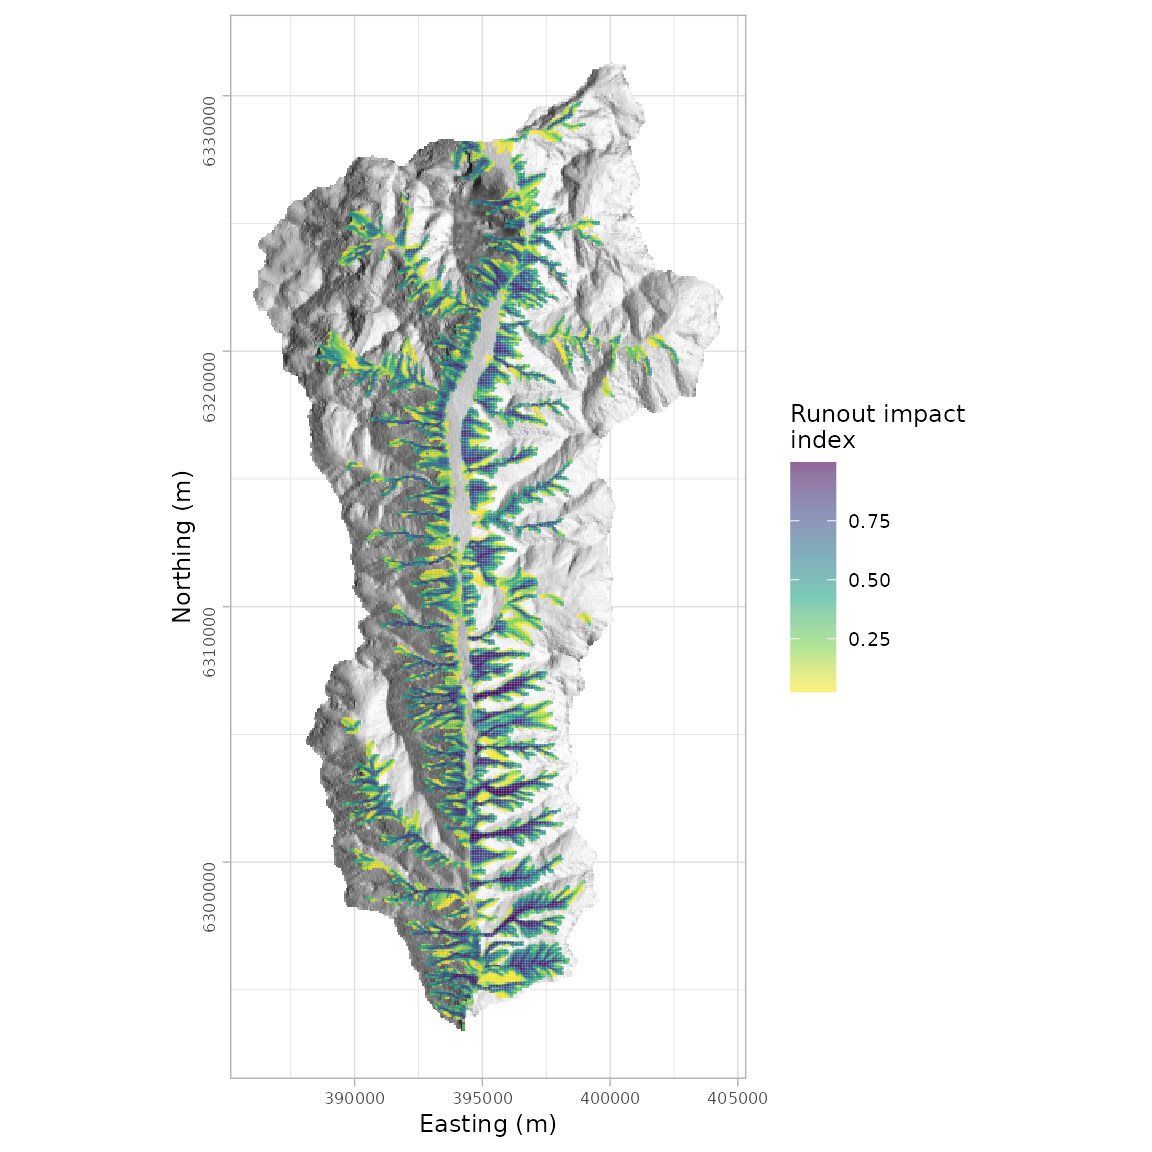
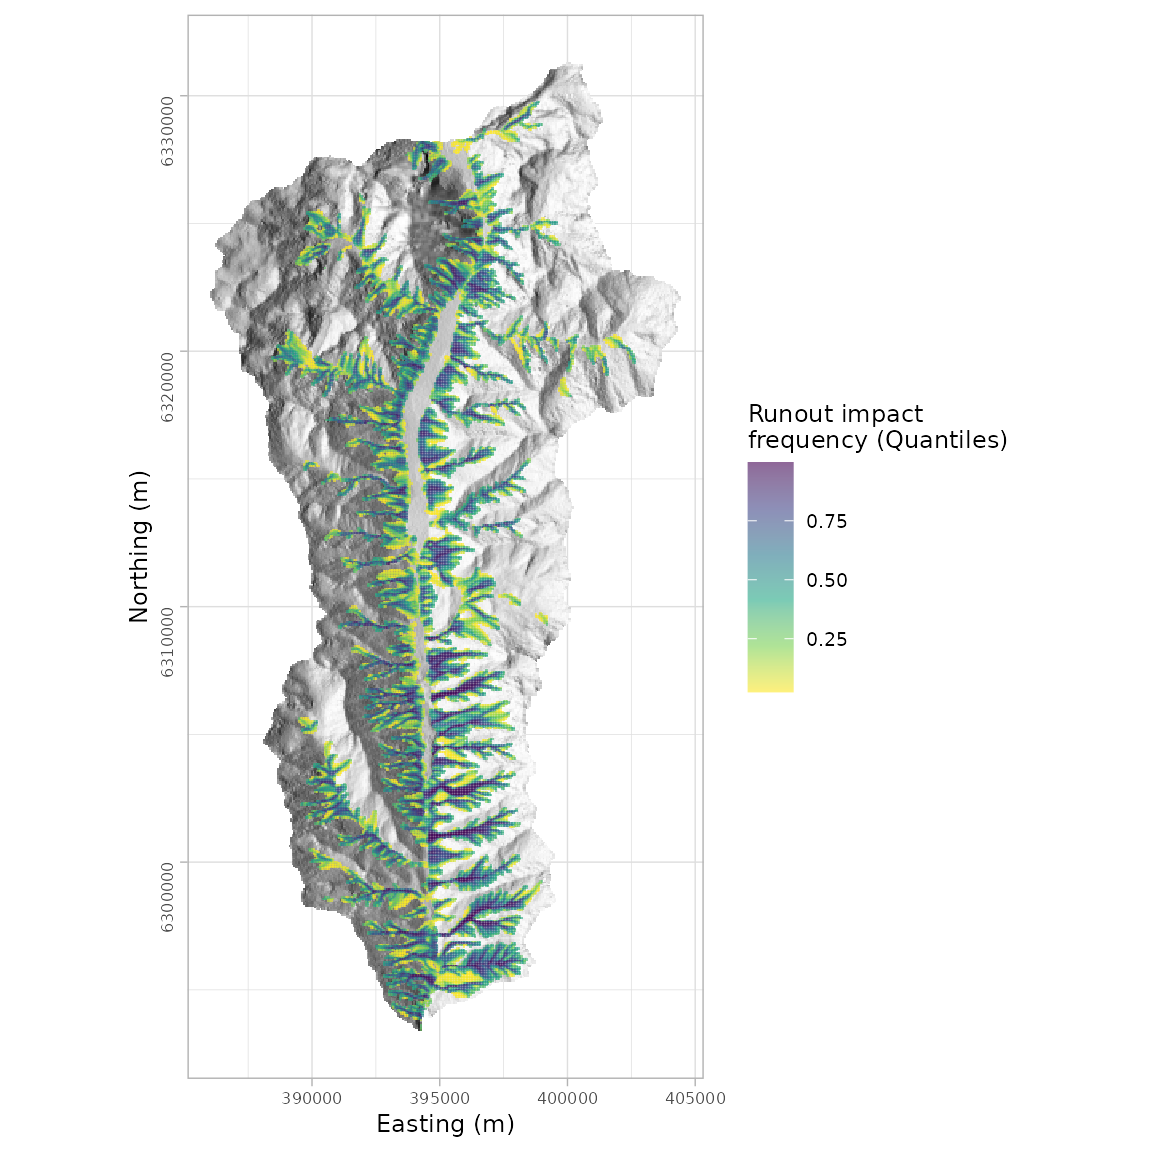
update

diff --git a/docs/articles/gpp_rw_pcm_single_optimization.html b/docs/articles/gpp_rw_pcm_single_optimization.html
@@ -156,7 +156,7 @@
                    gpp_iter <span class="op">=</span> <span class="fl">1000</span>, buffer_ext <span class="op">=</span> <span class="fl">500</span>, buffer_source <span class="op">=</span> <span class="fl">50</span>,
                    plot_eval <span class="op">=</span> <span class="cn">TRUE</span><span class="op">)</span></pre></div>
 <p><img src="gpp_rw_pcm_single_optimization_files/figure-html/unnamed-chunk-3-1.png" width="576"></p>
-<pre><code>#&gt; [1] 0.9211519</code></pre>
+<pre><code>#&gt; [1] 0.9223987</code></pre>
 </div>
 <div id="gpp-random-walk-grid-search-optimization" class="section level3">
 <h3 class="hasAnchor">
@@ -186,29 +186,29 @@
 <pre><code>#&gt; , , 1.5
 #&gt; 
 #&gt;          1.3      2.15         3
-#&gt; 20 0.5849511 0.6100450 0.6059228
-#&gt; 30 0.6016460 0.8653593 0.9222031
-#&gt; 40 0.7979834 0.9478138 0.9521184
+#&gt; 20 0.5849511 0.6062381 0.6110574
+#&gt; 30 0.5990963 0.8681053 0.9220264
+#&gt; 40 0.7980063 0.9480231 0.9517703
 #&gt; 
 #&gt; , , 1.75
 #&gt; 
 #&gt;          1.3      2.15         3
-#&gt; 20 0.5849465 0.6086510 0.6085345
-#&gt; 30 0.6029152 0.8676678 0.9220328
-#&gt; 40 0.8012620 0.9475478 0.9520510
+#&gt; 20 0.5849384 0.6087506 0.6097791
+#&gt; 30 0.6029146 0.8704731 0.9221127
+#&gt; 40 0.7960982 0.9474546 0.9517401
 #&gt; 
 #&gt; , , 2
 #&gt; 
 #&gt;          1.3      2.15         3
-#&gt; 20 0.5849452 0.6073091 0.6073232
-#&gt; 30 0.6015982 0.8702946 0.9208770
-#&gt; 40 0.8018465 0.9471929 0.9516901</code></pre>
+#&gt; 20 0.5849448 0.6074728 0.6173126
+#&gt; 30 0.6003659 0.8675001 0.9221713
+#&gt; 40 0.7981670 0.9471024 0.9519692</code></pre>
 <p>And find the parameter set that resulted in the highest AUROC score.</p>
 <div class="sourceCode" id="cb12"><pre class="downlit">
 <span class="va">rw_opt_single</span> <span class="op">&lt;-</span> <span class="fu"><a href="../reference/rwGetOpt_single.html">rwGetOpt_single</a></span><span class="op">(</span><span class="va">rw_gridsearch</span><span class="op">)</span>
 <span class="va">rw_opt_single</span></pre></div>
 <pre><code>#&gt;   rw_slp_opt rw_exp_opt rw_per_opt  rw_auroc
-#&gt; 1         40          3        1.5 0.9521184</code></pre>
+#&gt; 1         40          3          2 0.9519692</code></pre>
 </div>
 <div id="gpp-pcm-model-simulation-runout-distance" class="section level3">
 <h3 class="hasAnchor">
@@ -224,7 +224,7 @@
 <div class="sourceCode" id="cb15"><pre class="downlit">
 <span class="co"># Runout distance relative error</span>
 <span class="va">pcm</span><span class="op">$</span><span class="va">length.relerr</span></pre></div>
-<pre><code>#&gt; [1] 0.00686124</code></pre>
+<pre><code>#&gt; [1] 0.008077308</code></pre>
 <div class="sourceCode" id="cb17"><pre class="downlit">
 <span class="co"># Plot GPP PCM runout modelling ouputs</span>
 <span class="va">gpp_output</span> <span class="op">&lt;-</span> <span class="fu"><a href="https://rdrr.io/pkg/raster/man/stack.html">stack</a></span><span class="op">(</span><span class="va">pcm</span><span class="op">$</span><span class="va">gpp.parea</span>, <span class="va">pcm</span><span class="op">$</span><span class="va">gpp.stop</span>, <span class="va">pcm</span><span class="op">$</span><span class="va">gpp.maxvel</span><span class="op">)</span>
@@ -260,8 +260,8 @@
 
 <span class="co"># Get optimal parameters</span>
 <span class="fu"><a href="../reference/pcmGetOpt_single.html">pcmGetOpt_single</a></span><span class="op">(</span><span class="va">pcm_gridsearch</span><span class="op">)</span></pre></div>
-<pre><code>#&gt;   pcm_mu pcm_md      relerr     auroc
-#&gt; 1   0.15    120 0.008077308 0.9608315</code></pre>
+<pre><code>#&gt;   pcm_mu pcm_md     relerr     auroc
+#&gt; 1   0.15    100 0.00686124 0.9602373</code></pre>
 </div>
   </div>
 

diff --git a/docs/index.html b/docs/index.html
@@ -12,7 +12,7 @@
 <link rel="stylesheet" href="https://cdnjs.cloudflare.com/ajax/libs/font-awesome/5.12.1/css/v4-shims.min.css" integrity="sha256-wZjR52fzng1pJHwx4aV2AO3yyTOXrcDW7jBpJtTwVxw=" crossorigin="anonymous">
 <!-- clipboard.js --><script src="https://cdnjs.cloudflare.com/ajax/libs/clipboard.js/2.0.6/clipboard.min.js" integrity="sha256-inc5kl9MA1hkeYUt+EC3BhlIgyp/2jDIyBLS6k3UxPI=" crossorigin="anonymous"></script><!-- headroom.js --><script src="https://cdnjs.cloudflare.com/ajax/libs/headroom/0.11.0/headroom.min.js" integrity="sha256-AsUX4SJE1+yuDu5+mAVzJbuYNPHj/WroHuZ8Ir/CkE0=" crossorigin="anonymous"></script><script src="https://cdnjs.cloudflare.com/ajax/libs/headroom/0.11.0/jQuery.headroom.min.js" integrity="sha256-ZX/yNShbjqsohH1k95liqY9Gd8uOiE1S4vZc+9KQ1K4=" crossorigin="anonymous"></script><!-- pkgdown --><link href="pkgdown.css" rel="stylesheet">
 <script src="pkgdown.js"></script><meta property="og:title" content="GPP runout model optimization in R">
-<meta property="og:description" content="Automatic parameter selection and validation tools for the
+<meta property="og:description" content="Automatic parameter selection and validation tools for the 
     Gravitational Process Path (GPP) model in SAGA-GIS">
 <!-- mathjax --><script src="https://cdnjs.cloudflare.com/ajax/libs/mathjax/2.7.5/MathJax.js" integrity="sha256-nvJJv9wWKEm88qvoQl9ekL2J+k/RWIsaSScxxlsrv8k=" crossorigin="anonymous"></script><script src="https://cdnjs.cloudflare.com/ajax/libs/mathjax/2.7.5/config/TeX-AMS-MML_HTMLorMML.js" integrity="sha256-84DKXVJXs0/F8OTMzX4UR909+jtl4G7SPypPavF+GfA=" crossorigin="anonymous"></script><!--[if lt IE 9]>
 <script src="https://oss.maxcdn.com/html5shiv/3.7.3/html5shiv.min.js"></script>
@@ -41,7 +41,7 @@
 <li>
   <a href="index.html">
     <span class="fas fa fas fa-home fa-lg"></span>
-
+     
   </a>
 </li>
 <li>
@@ -50,7 +50,7 @@
 <li class="dropdown">
   <a href="#" class="dropdown-toggle" data-toggle="dropdown" role="button" aria-expanded="false">
     Articles
-
+     
     <span class="caret"></span>
   </a>
   <ul class="dropdown-menu" role="menu">
@@ -74,7 +74,7 @@
 </div>
 <!--/.navbar -->
 
-
+      
 
       </header><div class="row">
   <div class="contents col-md-9">
@@ -83,7 +83,7 @@
 <a href="#runoutopt" class="anchor"></a>runout.opt</h1></div>
 <p><strong>Description</strong></p>
 <p>This is an R package for optimizing mass movement runout models using the random walk and PCM model compenets of the <a href="https://gmd.copernicus.org/articles/10/3309/2017/">Gravitational Process Path (GPP)</a> modeling tool in <a href="http://www.saga-gis.org/en/index.html">SAGA-GIS</a>.</p>
-<p><img src="https://jngtz.github.io/runout.opt/articles/regional_runout_impact_map.png" width="500"></p>
+<p><img src="https://jngtz.github.io/runout.opt/articles/gpp_rw_pcm_apply_regionally_files/figure-html/unnamed-chunk-7-1.png" width="500"></p>
 <p><strong>Installation</strong></p>
 <p>You can install this development version of runout.opt with:</p>
 <div class="sourceCode" id="cb1"><pre class="downlit">
@@ -124,7 +124,7 @@
       </footer>
 </div>
 
-
+  
 
 
   </body>

diff --git a/docs/articles/gpp_rw_pcm_apply_regionally.html b/docs/articles/gpp_rw_pcm_apply_regionally.html
@@ -240,7 +240,7 @@
 
   <span class="fu"><a href="https://rdrr.io/pkg/ggnewscale/man/new_scale.html">new_scale</a></span><span class="op">(</span><span class="st">"fill"</span><span class="op">)</span> <span class="op">+</span>
   <span class="fu"><a href="https://ggplot2.tidyverse.org/reference/geom_tile.html">geom_tile</a></span><span class="op">(</span>data<span class="op">=</span><span class="va">parea_df</span>, <span class="fu"><a href="https://ggplot2.tidyverse.org/reference/aes.html">aes</a></span><span class="op">(</span>x<span class="op">=</span><span class="va">x</span>, y<span class="op">=</span><span class="va">y</span>, fill <span class="op">=</span> <span class="va">gpp_process_area</span><span class="op">)</span> <span class="op">)</span> <span class="op">+</span>
-  <span class="fu"><a href="https://ggplot2.tidyverse.org/reference/scale_viridis.html">scale_fill_viridis_c</a></span><span class="op">(</span>name <span class="op">=</span> <span class="st">"Runout impact\nindex"</span>,  alpha <span class="op">=</span> <span class="fl">0.6</span>, direction <span class="op">=</span> <span class="op">-</span><span class="fl">1</span><span class="op">)</span> <span class="op">+</span>
+  <span class="fu"><a href="https://ggplot2.tidyverse.org/reference/scale_viridis.html">scale_fill_viridis_c</a></span><span class="op">(</span>name <span class="op">=</span> <span class="st">"Runout impact\nfrequency (Quantiles)"</span>,  alpha <span class="op">=</span> <span class="fl">0.6</span>, direction <span class="op">=</span> <span class="op">-</span><span class="fl">1</span><span class="op">)</span> <span class="op">+</span>
 
   <span class="fu"><a href="https://ggplot2.tidyverse.org/reference/labs.html">xlab</a></span><span class="op">(</span><span class="st">"Easting (m)"</span><span class="op">)</span> <span class="op">+</span>
   <span class="fu"><a href="https://ggplot2.tidyverse.org/reference/labs.html">ylab</a></span><span class="op">(</span><span class="st">"Northing (m)"</span><span class="op">)</span> <span class="op">+</span>

diff --git a/README.md b/README.md
@@ -6,7 +6,7 @@ This is an R package for optimizing mass movement runout models using the random
 walk and PCM model compenets of the [Gravitational Process Path (GPP)](https://gmd.copernicus.org/articles/10/3309/2017/) modeling
 tool in [SAGA-GIS](http://www.saga-gis.org/en/index.html).
 
-<img src="https://github.com/jngtz/runout.opt/blob/main/docs/articles/regional_runout_impact_map.png" width="500">
+<img src="https://jngtz.github.io/runout.opt/articles/gpp_rw_pcm_apply_regionally_files/figure-html/unnamed-chunk-7-1.png" width="500">
 
 **Installation**
 
